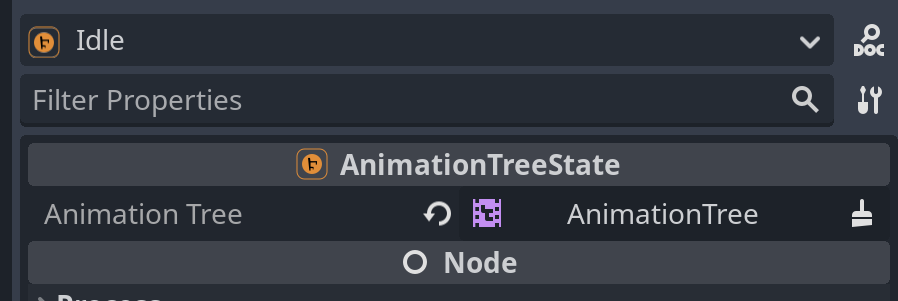
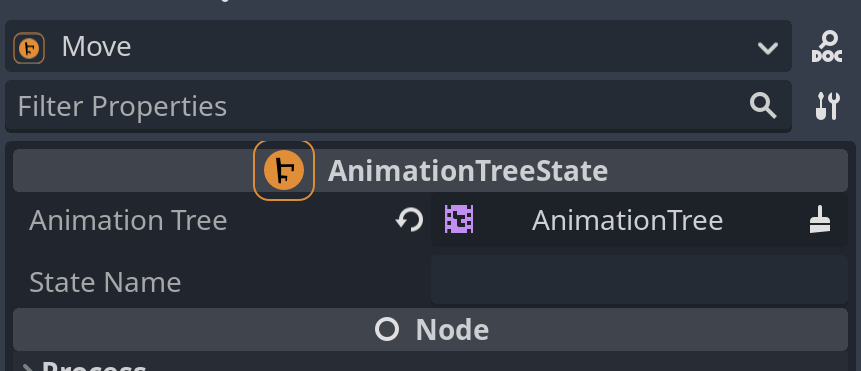
chore: update documentation
fixes #11

diff --git a/manual/manual.md b/manual/manual.md
@@ -74,7 +74,7 @@ States are the building blocks from which you build your state charts. A state c
 
 - _Initial state_ - this property determines which child state will be activated when the compound state is entered directly. You can always activate a child state by explicitly transitioning to it. If you do not set an initial state then no child state will be activated and an error will be printed to the console.
 
-![Compound state properties](compound_state.png)
+<img src="compound_state.png" width="400" alt="Compound state properties">
 
 #### Parallel states
 
@@ -87,22 +87,42 @@ States are the building blocks from which you build your state charts. A state c
 - _Deep_ - if true the history state will capture and restore the state of the whole sub-tree below the compound state. If false the history state will only capture and restore the last active state of its immediate parent compound state.
 - _Default state_ - this is the state which will be activated if the history state is entered and no history has been captured yet. If you do not set a default state, the history state will not activate any state when it is entered and an error will be printed to the console.
 
-![History state properties](history_state.png)
 
+<img src="history_state.png" width="400" alt="History state properties">
+
+To use a history state, set up a transition that transitions directly to the history state. This will restore the last known state or activate the default state if no history has been captured yet. If your compound state has a history state as a child but you do not want to restore the history when entering the compound state, you can transition to the compound state directly. This will activate the initial state of the compound state and will not restore the history. Also check the history state example in the examples folder.
 
 #### Animation tree states
 
-_Note: this feature is currently experimental and may change or be removed in the future._
+_Note: this feature is currently experimental and may change or be replaced in the future._
 
 <img src="../addons/godot_state_charts/animation_tree_state.svg" width="32" height="32" align="left"> Animation tree states are a variation of atomic states. They can be linked to an animation tree. When an animation tree state is activated it will ask the animation tree to travel to the same state (the animation tree state and the state inside the animation tree should have the same name). This can be used to control animation trees with the same state chart events that you use to control your game logic. Animation tree states have the following properties:
 
 - _Animation tree_ - the animation tree that should be controlled by the animation tree state.
+- _State Name_ - the name of the state inside the animation tree that should be activated when the animation tree state is activated. This is optional, if you do not set a state name, the animation tree state will activate the state with the same name as the animation tree state.
 
-![Animation tree state properties](animation_tree_state.png)
+<img src="animation_tree_state.png" width="400" alt="Animation tree state properties">
 
 Animation tree states are usually independent of the rest of the states, so it is usually a good idea to use a parallel state to separate them from the rest of the states.
 
 ![Separation of animation tree states](animation_tree_state_separation.png)
+
+
+#### Animation player states
+
+_Note: this feature is currently experimental and may change or be replaced in the future._
+
+<img src="../addons/godot_state_charts/animation_player_state.svg" width="32" height="32" align="left"> Animation player states are similar to animation tree states. They can be linked to an animation player. When an animation player state is activated it will ask the animation player to play the same animation (the animation player state and the animation inside the animation player should have the same name). This can be used to control animation players with the same state chart events that you use to control your game logic. Animation player states have the following properties:
+
+- _Animation player_ - the animation player that should be controlled by the animation player state.
+- _Animation Name_ - the name of the animation inside the animation player that should be played when the animation player state is activated. This is optional, if you do not set an animation name, the animation player state will play the animation with the same name as the animation player state.
+- _Custom Blend_ - a custom animation blend time. The default is `-1` which will use the animation player's default blend time.
+- _Custom Speed_ - a custom animation speed. The default is `1.0` which will play the animation forwards with normal speed. You can use negative values to play the animation backwards or values greater than `1.0` to play the animation faster.
+- _From End_ - if true the animation will be played from the end to the beginning. This is useful if you want to play an animation backwards. Note that you will still need to set the custom speed to a negative value to actually play the animation backwards.
+
+<img src="animation_player_state.png" width="400" alt="Animation player state properties">
+
+Similar to animation tree states, animation player states are usually independent of the rest of the states, so it is usually a good idea to use a parallel state to separate them from the rest of the states.
 
 ### Events and transitions
 

diff --git a/CHANGES.md b/CHANGES.md
@@ -4,6 +4,17 @@ All notable changes to this project will be documented in this file.
 The format is based on [Keep a Changelog](https://keepachangelog.com/en/1.0.0/),
 and this project adheres to [Semantic Versioning](https://semver.org/spec/v2.0.0.html).
 
+## [0.3.0] - 2023-05-02
+### Added
+- A new _Animation Player State_ is now available. It works similar to the _Animation Tree State_ but controls an animation player instead of an animation tree. With this you can trigger animations when entering a certain state. A huge thanks goes out to [Junji Takakura](https://github.com/jtakakura) for contributing this feature. The platformer demo has been updated to use this new state for the new destructible iron crates.
+
+### Improved
+- The _Animation Tree State_ now has a new property which allows to specify the name of the state in the animation tree that should be triggered. Previously the name of the state in the state chart and in the animation tree state machine had to match exactly which was not very flexible. The new field is optional, so if you don't specify a name, the state chart will still try to find a state in the animation tree with the same name as the state in the state chart. As such this change is also backwards compatible.
+
+### Fixed
+- The state chart debugger will no longer crash when a new node is debugged and the previously debugged node was destroyed in the meantime.
+
+
 ## [0.2.1] - 2023-04-20
 ### Fixed
 
